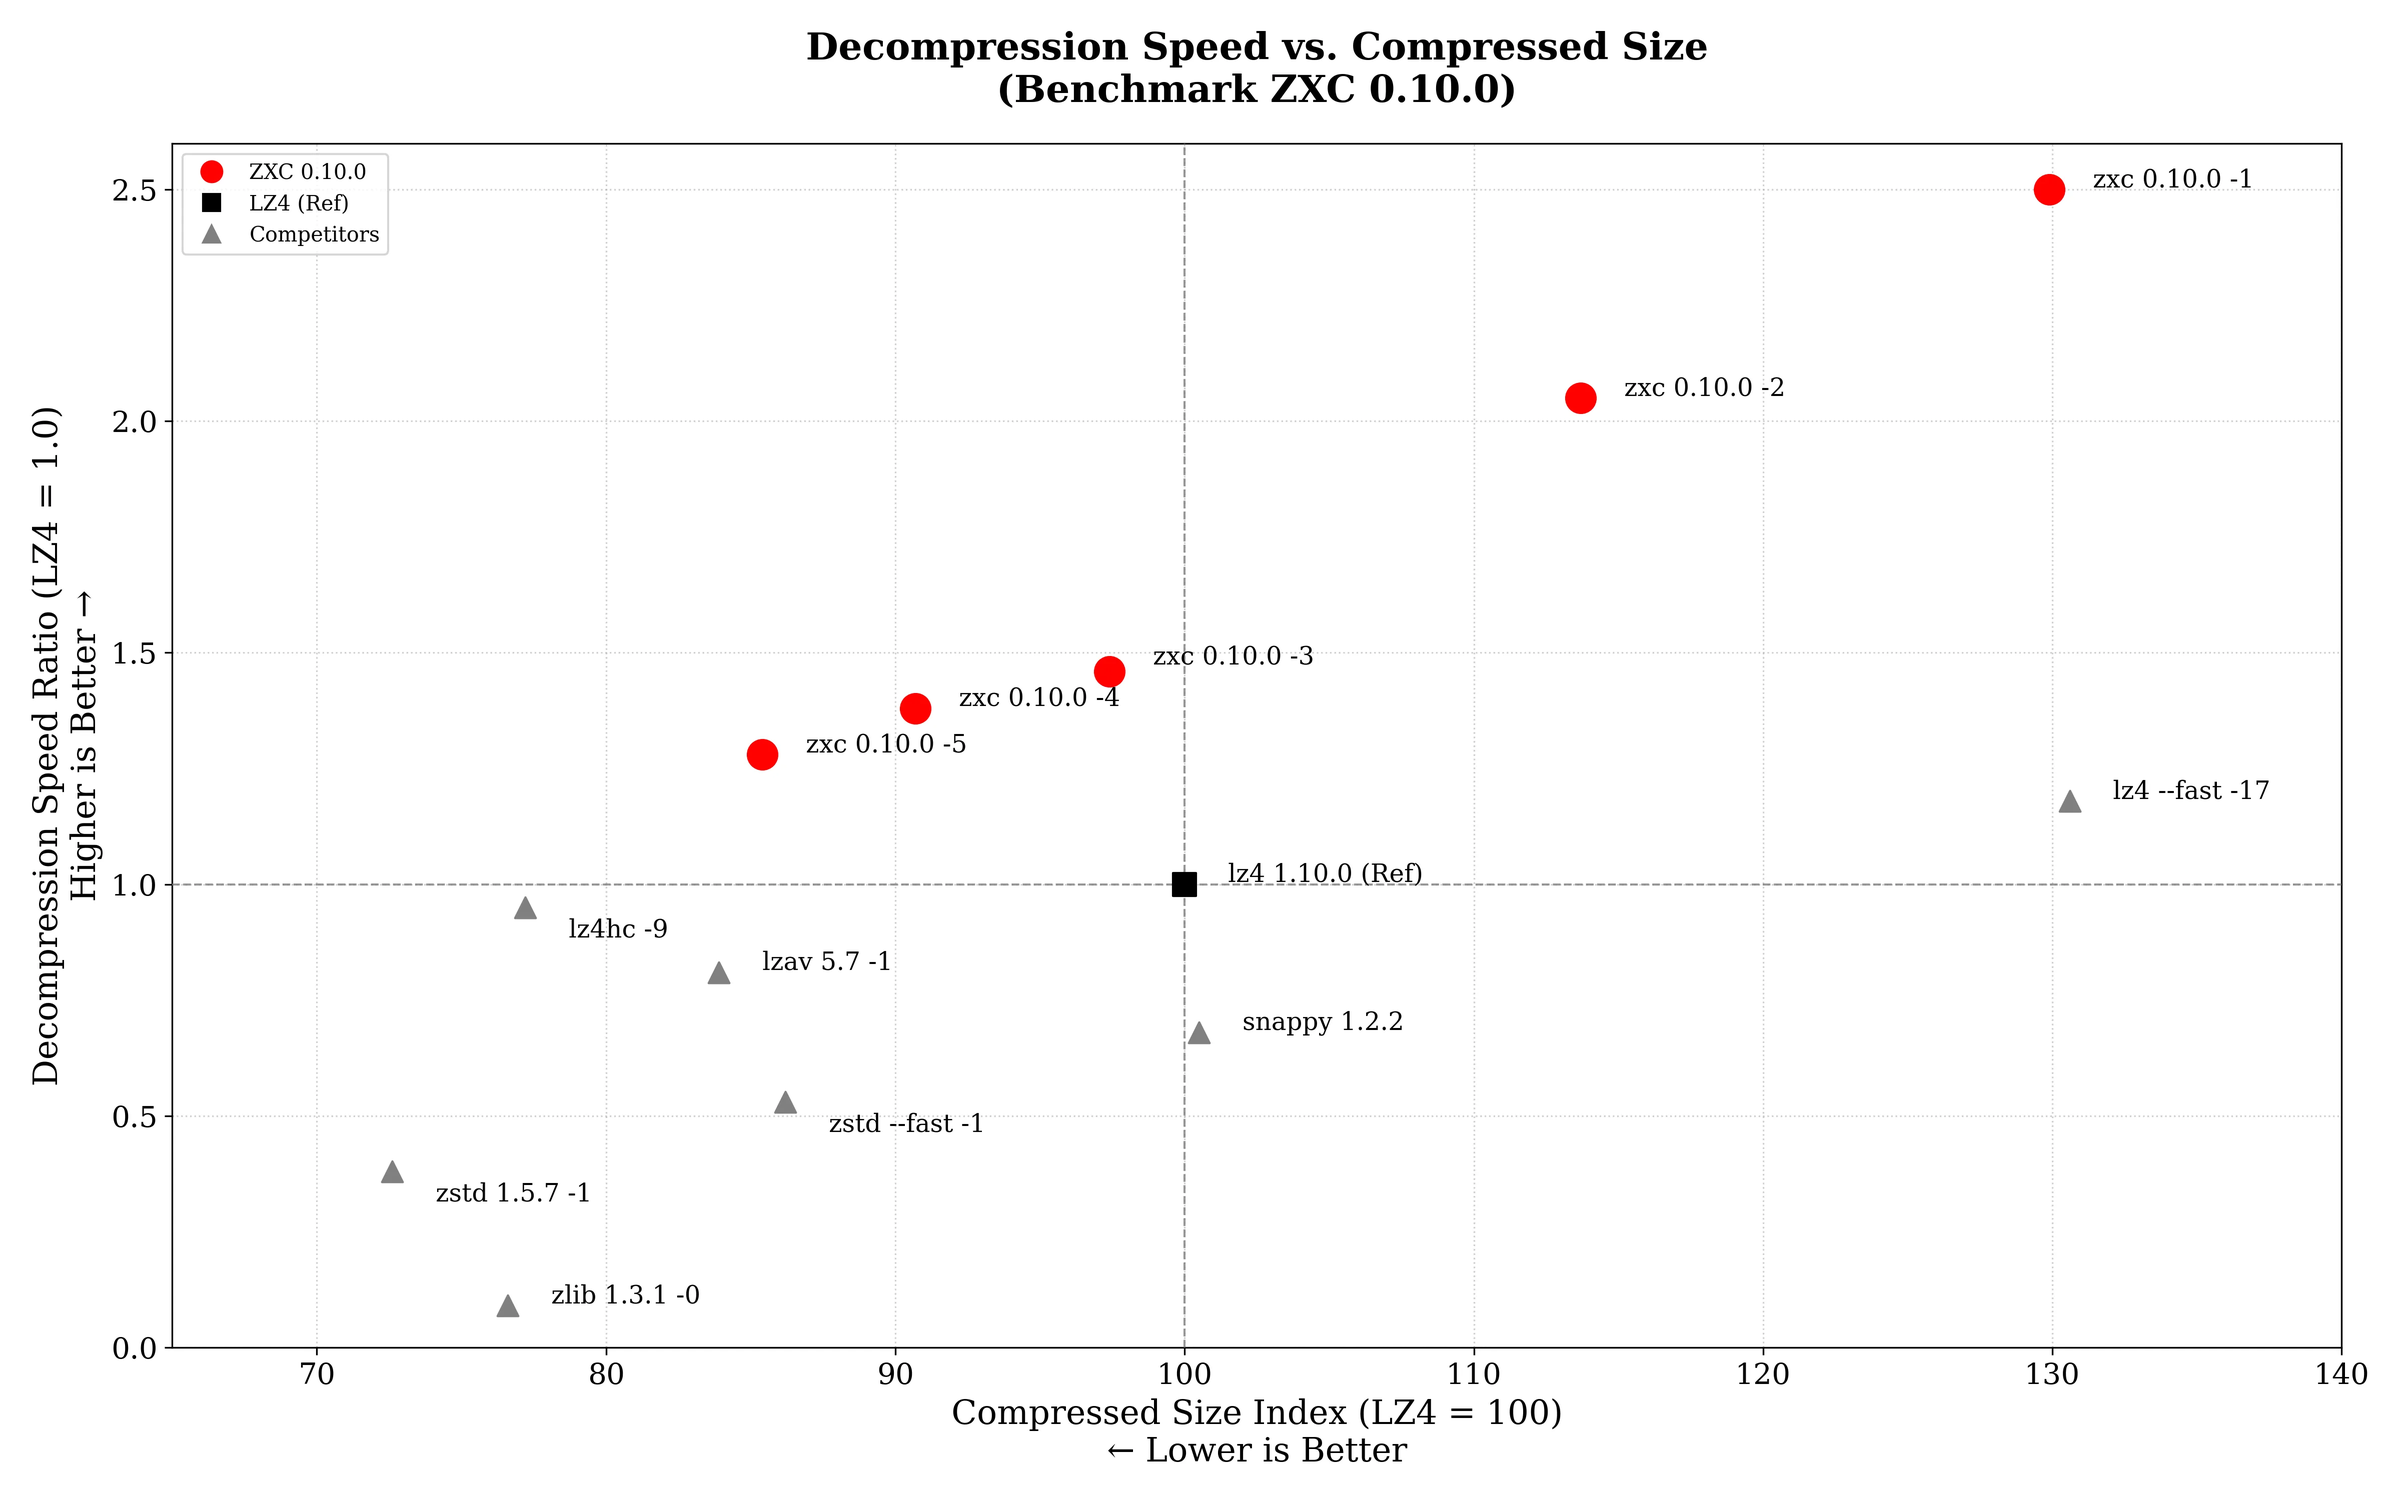
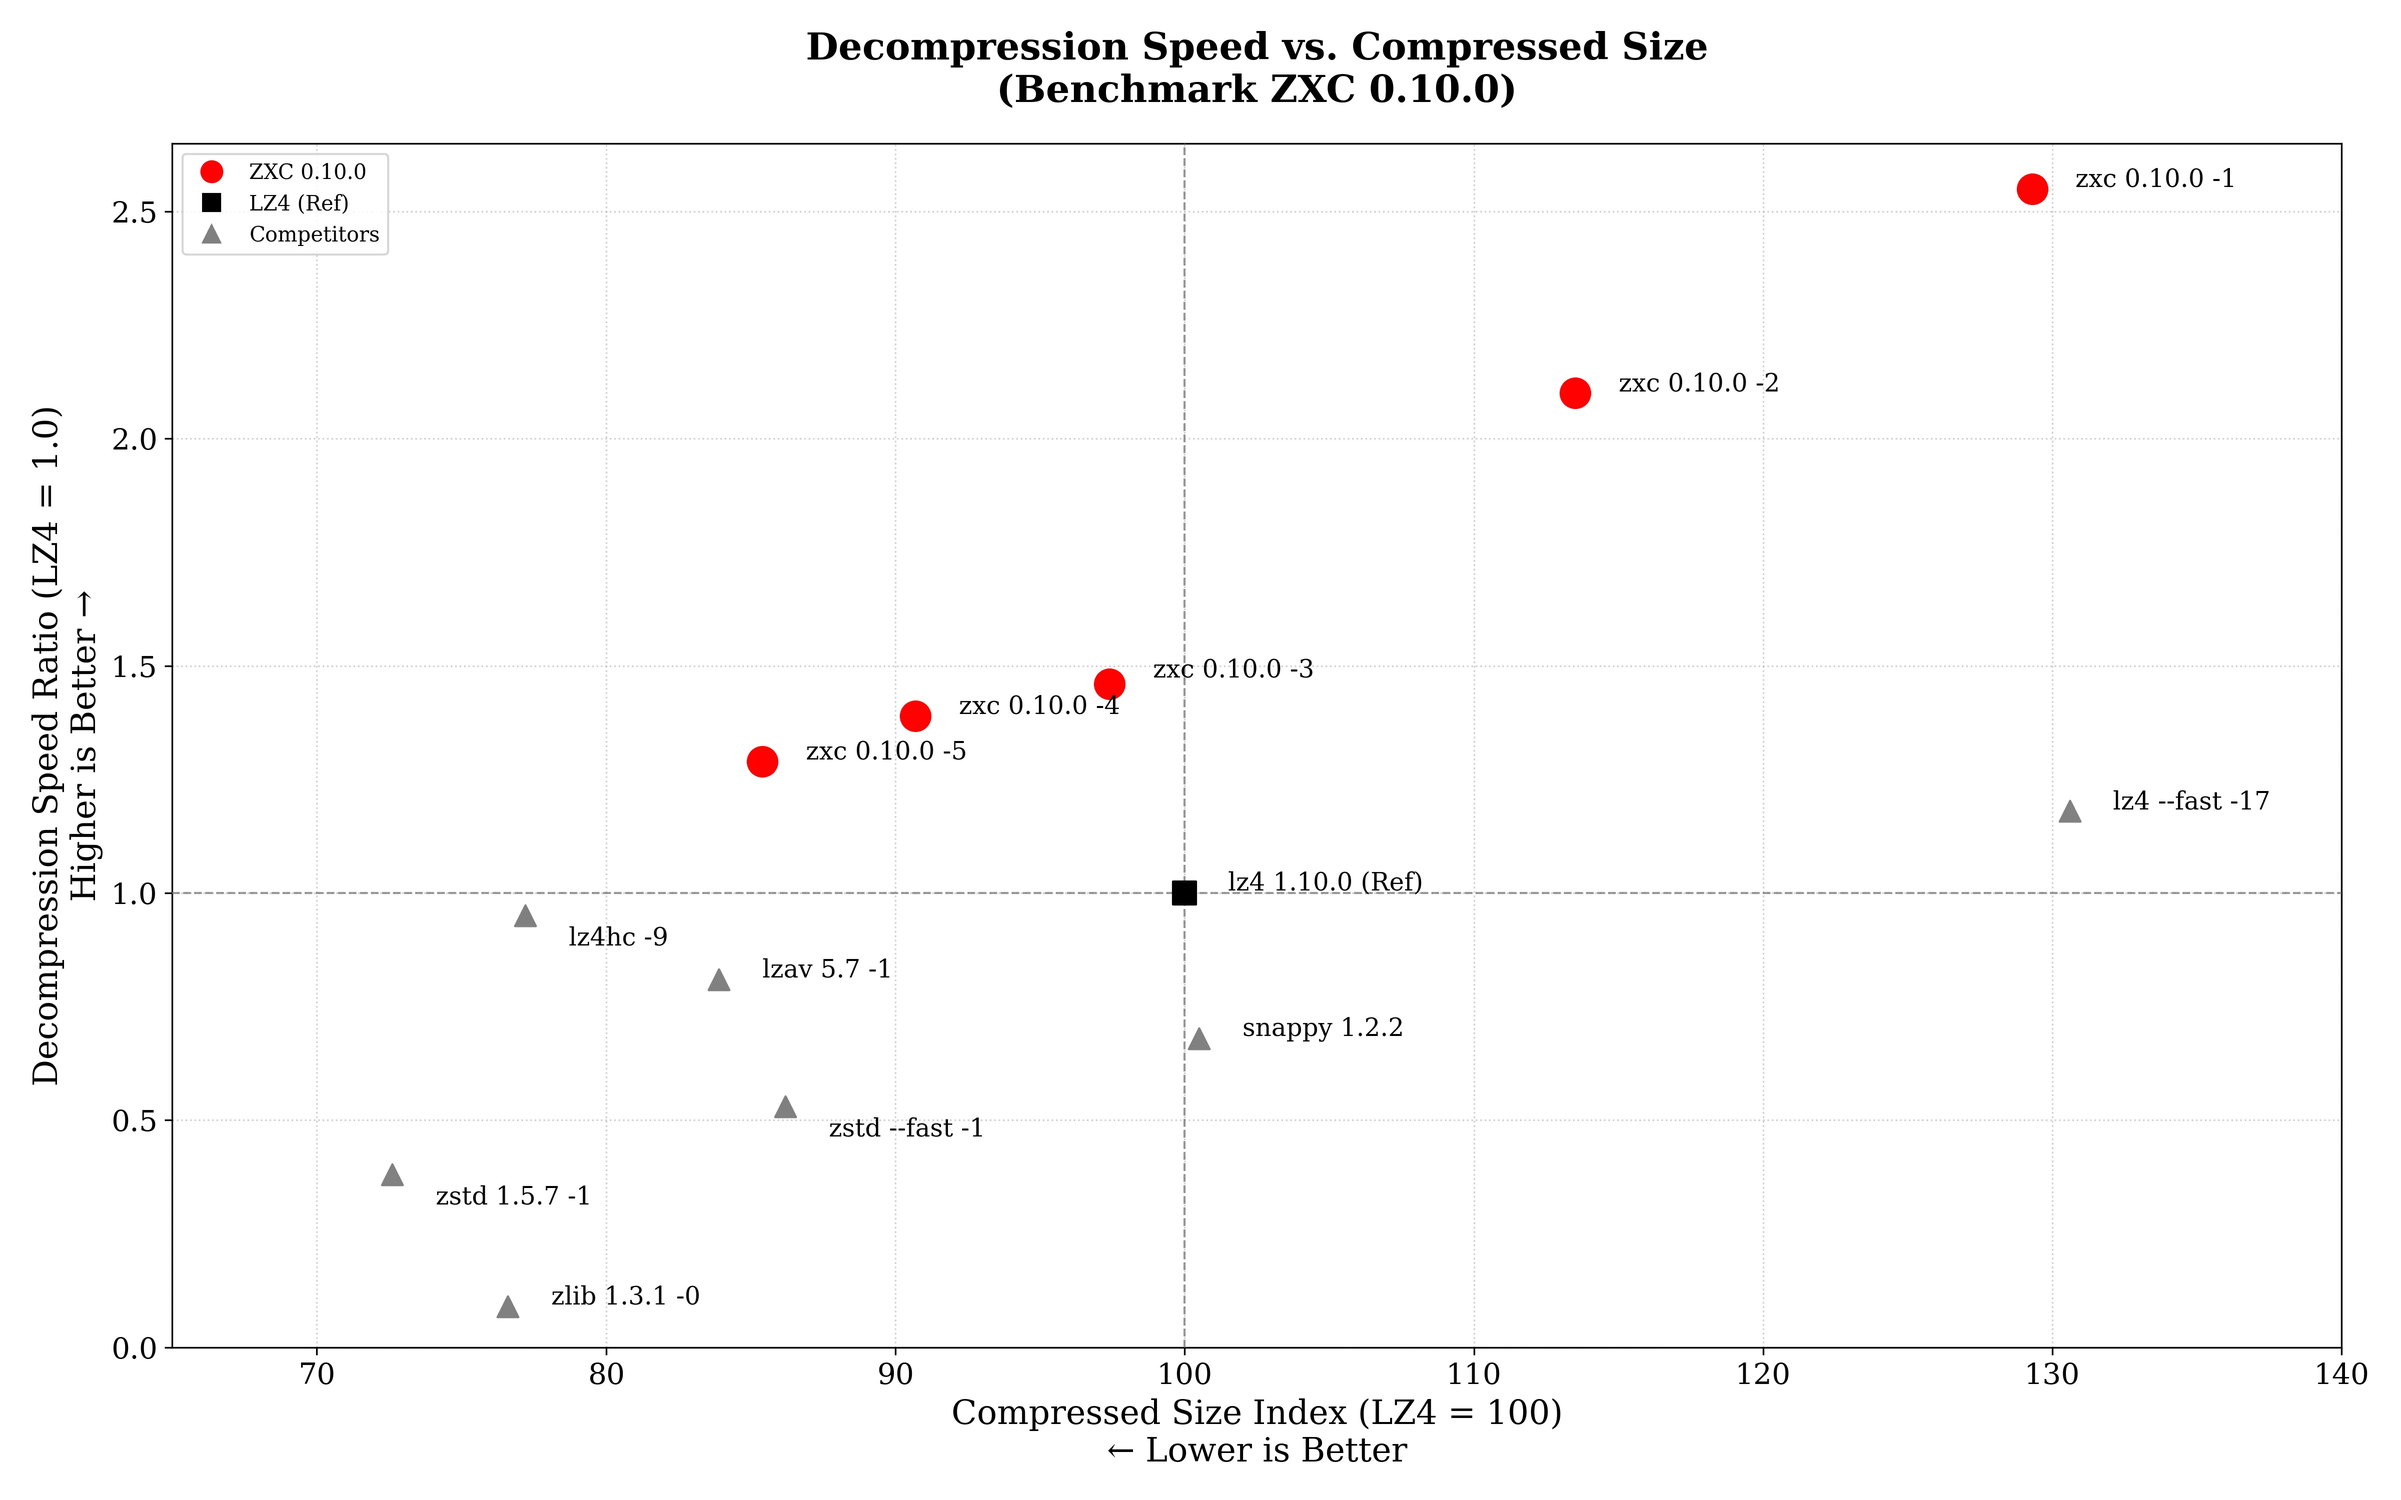
Refreshes benchmark performance metrics for competitor libraries
Updates decompression throughput, efficiency ratios, and cycles-per-byte data for Snappy, Zstd, and Zlib on ARM64 targets. These revisions ensure that the comparative data in the README and Whitepaper accurately reflects competitor performance alongside v0.10.0.

diff --git a/docs/WHITEPAPER.md b/docs/WHITEPAPER.md
@@ -551,10 +551,10 @@ Benchmarks were conducted using `lzbench` (by inikep) with the **default block s
 | lz4 1.10.0 (Ref) | 1.00x | 100.00 |
 | lz4hc 1.10.0 -9 | 0.90x | 77.20 |
 | lzav 5.7 -1 | 0.65x | 83.91 |
-| snappy 1.2.2 | 0.28x | 100.53 |
-| zstd 1.5.7 --fast --1 | 0.28x | 86.16 |
-| zstd 1.5.7 -1 | 0.20x | 72.55 |
-| zlib 1.3.1 -1 | 0.05x | 76.58 |
+| snappy 1.2.2 | 0.54x | 100.53 |
+| zstd 1.5.7 --fast --1 | 0.54x | 86.16 |
+| zstd 1.5.7 -1 | 0.39x | 72.55 |
+| zlib 1.3.1 -1 | 0.09x | 76.58 |
 
 **Decompression Efficiency (Cycles per Byte @ 2.6 GHz)**
 
@@ -570,10 +570,10 @@ Benchmarks were conducted using `lzbench` (by inikep) with the **default block s
 | lz4 1.10.0 --fast -17   | 0.525       | 4.8x                  |
 | lz4hc 1.10.0 -9         | 0.675       | 6.2x                  |
 | lzav 5.7 -1             | 0.937       | 8.6x                  |
-| zstd 1.5.7 -1           | 3.081       | 28.4x                 |
-| zstd 1.5.7 --fast --1   | 2.194       | 20.2x                 |
-| snappy 1.2.2            | 2.190       | 20.2x                 |
-| zlib 1.3.1 -1           | 13.333      | 123x                  |
+| zstd 1.5.7 -1           | 1.581       | 14.6x                 |
+| zstd 1.5.7 --fast --1   | 1.134       | 10.4x                 |
+| snappy 1.2.2            | 1.131       | 10.4x                 |
+| zlib 1.3.1 -1           | 6.667       | 61.4x                 |
 
 *Lower is better. Calculated using Neoverse-V2 base frequency (2.6 GHz). Formula: `Cycles/Byte = 2600 / Decompression Speed (MB/s)`.*
 
@@ -667,10 +667,10 @@ Benchmarks were conducted using lzbench 2.2.1 (from @inikep), compiled with GCC 
 | lz4 1.10.0 --fast -17   |  1278 MB/s |  4950 MB/s |   131732802 | 62.15 | 1 files|
 | lz4hc 1.10.0 -9         |  43.3 MB/s |  3850 MB/s |    77884448 | 36.75 | 1 files|
 | lzav 5.7 -1             |   554 MB/s |  2776 MB/s |    84644732 | 39.94 | 1 files|
-| snappy 1.2.2            |   757 MB/s |  1187 MB/s |   101415443 | 47.85 | 1 files|
-| zstd 1.5.7 --fast --1   |   304 MB/s |  1185 MB/s |    86916294 | 41.01 | 1 files|
-| zstd 1.5.7 -1           |   263 MB/s |   844 MB/s |    73193704 | 34.53 | 1 files|
-| zlib 1.3.1 -1           |  57.5 MB/s |   195 MB/s |    77259029 | 36.45 | 1 files|
+| snappy 1.2.2            |   757 MB/s |  2298 MB/s |   101415443 | 47.85 | 1 files|
+| zstd 1.5.7 --fast --1   |   606 MB/s |  2293 MB/s |    86916294 | 41.01 | 1 files|
+| zstd 1.5.7 -1           |   524 MB/s |  1645 MB/s |    73193704 | 34.53 | 1 files|
+| zlib 1.3.1 -1           |  57.2 MB/s |   390 MB/s |    77259029 | 36.45 | 1 files|
 
 
 #### 7.4.3 x86_64 Architecture (AMD EPYC 9B45)

diff --git a/README.md b/README.md
@@ -74,7 +74,7 @@ We monitor metrics on both **x86_64** (Linux) and **ARM64** (Apple Silicon M2) r
 | :--- | :--- | :--- | :--- | :--- |
 | **1. Max Speed** | **ZXC -1** vs *LZ4 --fast* | **8,924 MB/s** vs 4,950 MB/s **1.80x Faster** | **61.6** vs 62.2 **Smaller** (-0.6%) | **ZXC** leads in raw throughput. |
 | **2. Standard** | **ZXC -3** vs *LZ4 Default* | **5,297 MB/s** vs 4,262 MB/s **1.24x Faster** | **46.4** vs 47.6 **Smaller** (-2.6%) | **ZXC** outperforms LZ4 in read speed and ratio. |
-| **3. High Density** | **ZXC -5** vs *Zstd --fast 1* | **4,676 MB/s** vs 1,185 MB/s **3.95x Faster** | **40.7** vs 41.0 **Equivalent** (-0.8%) | **ZXC** outperforms Zstd in decoding speed. |
+| **3. High Density** | **ZXC -5** vs *Zstd --fast 1* | **4,676 MB/s** vs 2,293 MB/s **2.04x Faster** | **40.7** vs 41.0 **Equivalent** (-0.8%) | **ZXC** outperforms Zstd in decoding speed. |
 
 ### 3. Build Server: x86_64 (AMD EPYC 9B45)
 *Scenario: CI/CD Pipelines compatibility.*
@@ -128,10 +128,10 @@ Benchmarks were conducted using lzbench 2.2.1 (from @inikep), compiled with GCC 
 | lz4 1.10.0 --fast -17   |  1278 MB/s |  4950 MB/s |   131732802 | 62.15 | 1 files|
 | lz4hc 1.10.0 -9         |  43.3 MB/s |  3850 MB/s |    77884448 | 36.75 | 1 files|
 | lzav 5.7 -1             |   554 MB/s |  2776 MB/s |    84644732 | 39.94 | 1 files|
-| snappy 1.2.2            |   757 MB/s |  1187 MB/s |   101415443 | 47.85 | 1 files|
-| zstd 1.5.7 --fast --1   |   304 MB/s |  1185 MB/s |    86916294 | 41.01 | 1 files|
-| zstd 1.5.7 -1           |   263 MB/s |   844 MB/s |    73193704 | 34.53 | 1 files|
-| zlib 1.3.1 -1           |  57.5 MB/s |   195 MB/s |    77259029 | 36.45 | 1 files|
+| snappy 1.2.2            |   757 MB/s |  2298 MB/s |   101415443 | 47.85 | 1 files|
+| zstd 1.5.7 --fast --1   |   606 MB/s |  2293 MB/s |    86916294 | 41.01 | 1 files|
+| zstd 1.5.7 -1           |   524 MB/s |  1645 MB/s |    73193704 | 34.53 | 1 files|
+| zlib 1.3.1 -1           |  57.2 MB/s |   390 MB/s |    77259029 | 36.45 | 1 files|
 
 
 ### Benchmark x86_64 (AMD EPYC 9B45)
